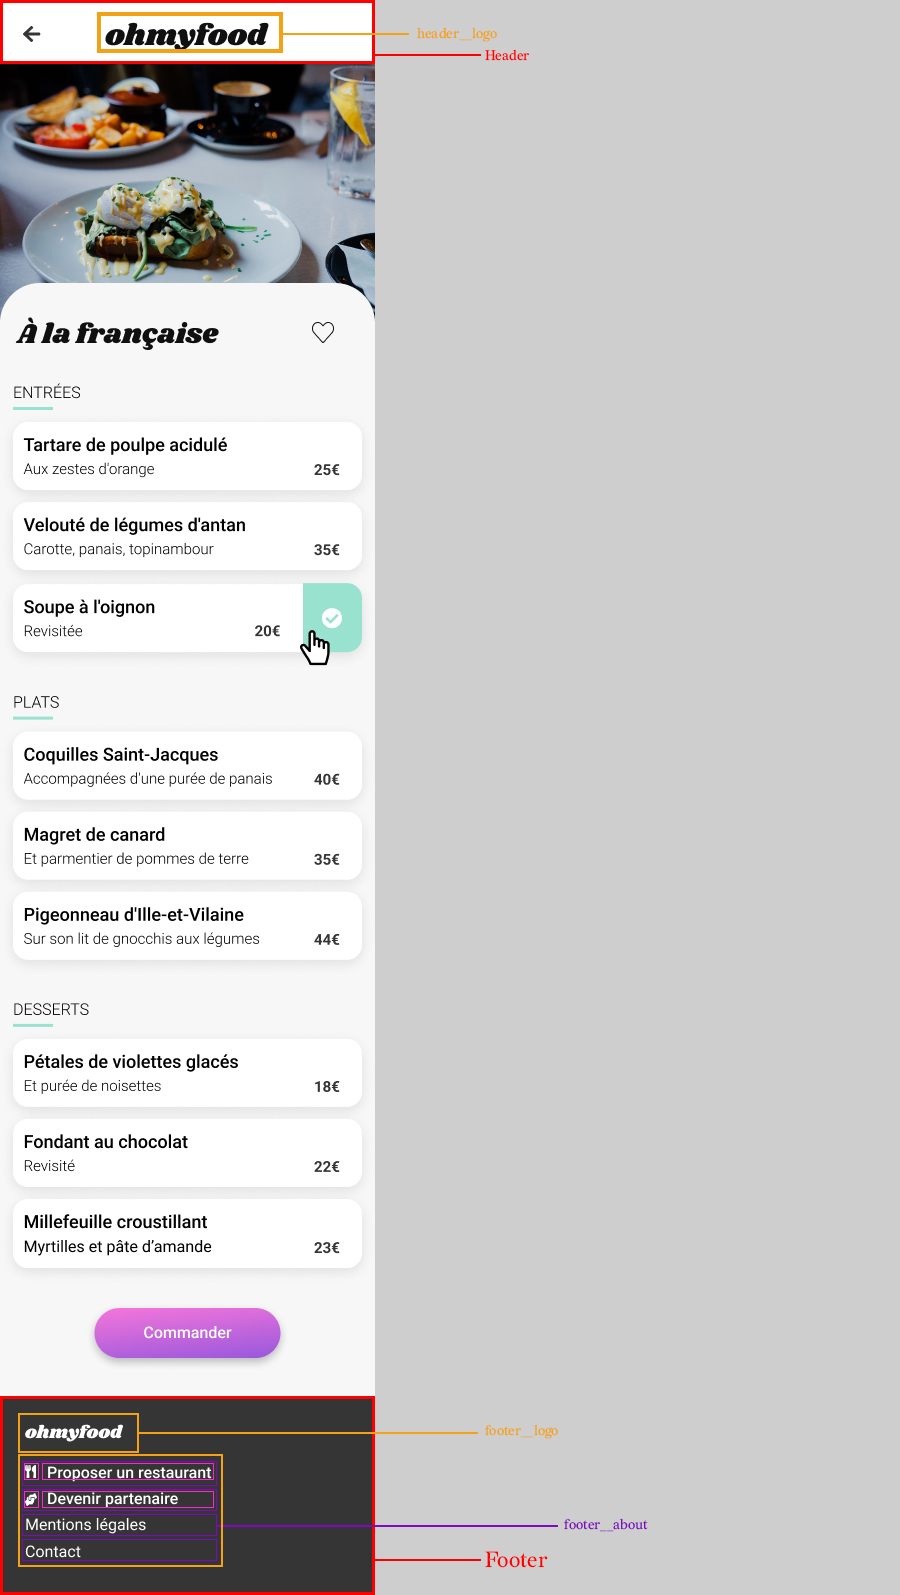
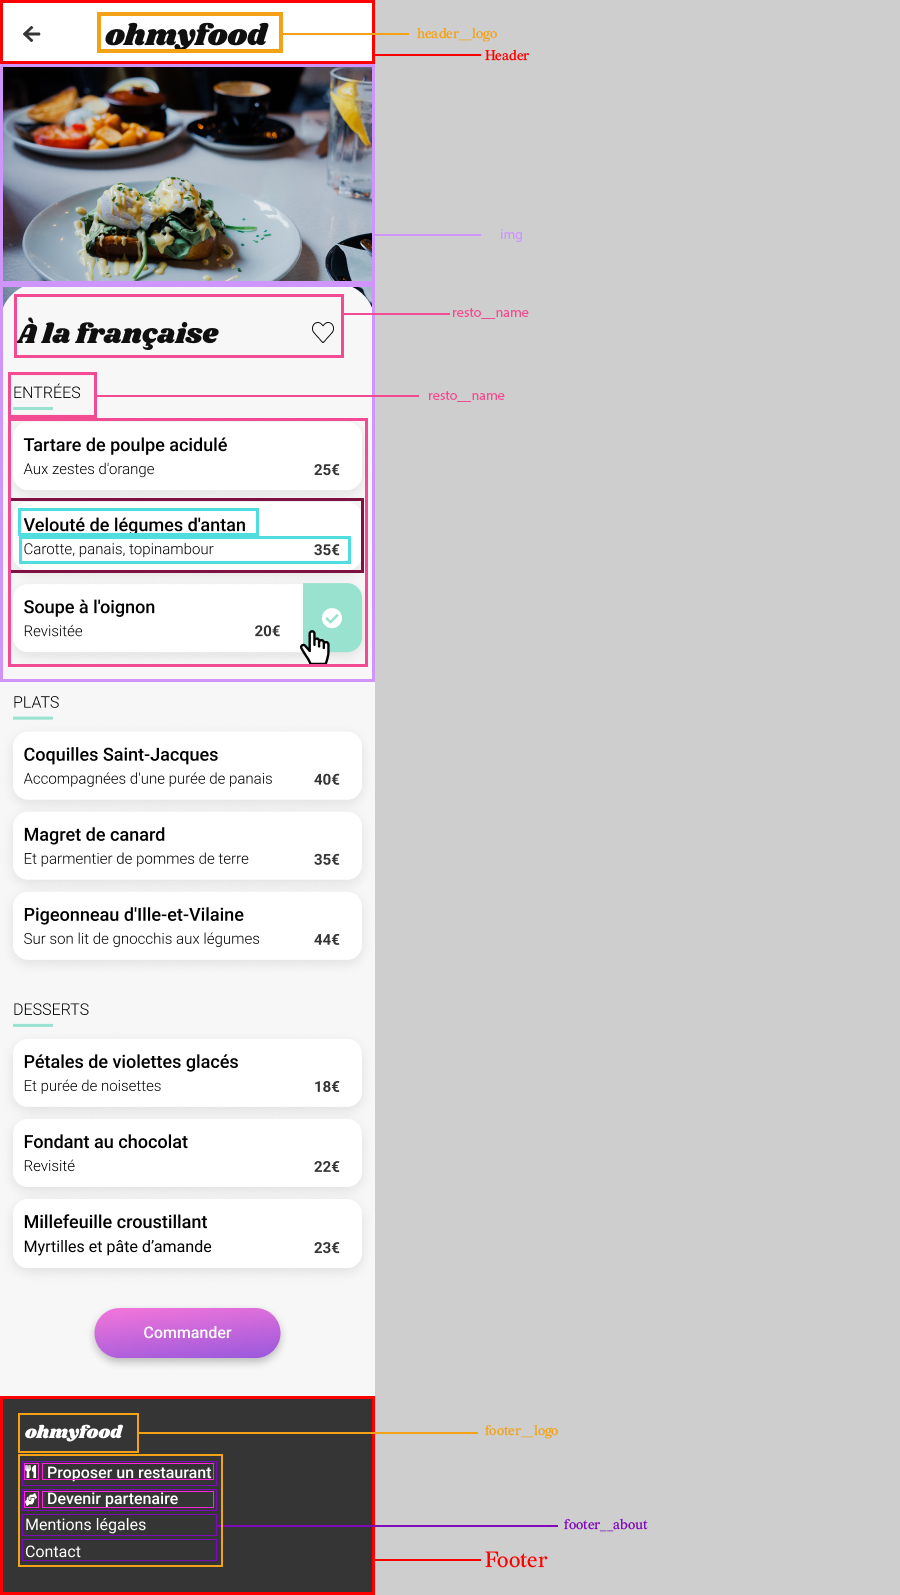
maquette menu découpée

Changed region(s): [[0.0, 0.0307, 0.4356, 0.4301]]

diff --git a/à la française.html b/à la française.html
@@ -12,10 +12,13 @@
     <!--HEADER-->
 
     <header>
-        <i class="fa-solid fa-arrow-left"></i>
+        <a href="/index.html"><i class="fa-solid fa-arrow-left"></i></a>
         <a href="/index.html"><img src="/Maquette Ohmyfood/images/logo/ohmyfood@2x.svg" class="header__logo" alt="logo ohmyfood"></a>
     </header>
 
+    <section>
+        <img src="/Maquette Ohmyfood/images/restaurants/toa-heftiba-DQKerTsQwi0-unsplash.jpg" alt="">
+    </section>
 
 </body>
 </html>
